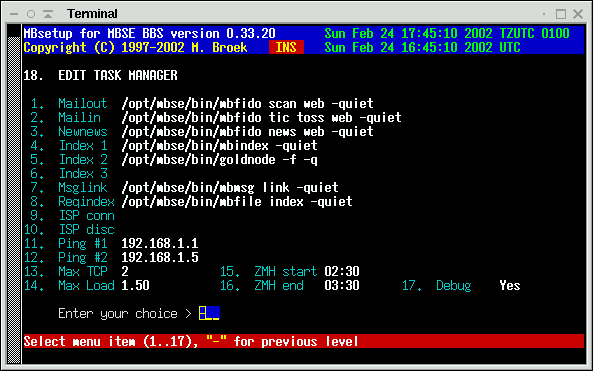
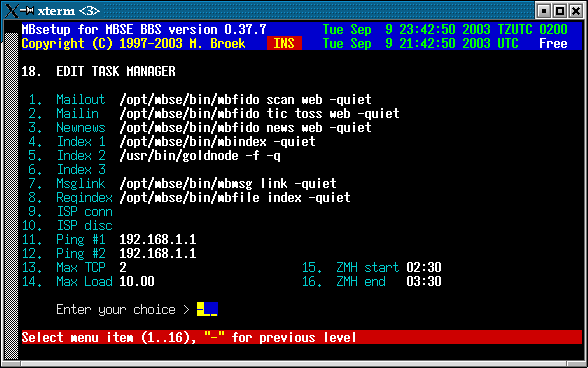
Some small updates

diff --git a/html/setup/global.html b/html/setup/global.html
@@ -12,7 +12,7 @@
 </HEAD>
 <BODY>
 <BLOCKQUOTE>
-<div align="right"><h5>Last update 24-Aug-2003</h5></div>
+<div align="right"><h5>Last update 09-Sep-2003</h5></div>
 
 <div align="center"><H1>MBSE BBS Setup - Global Setup</H1></div>
 <P>
@@ -50,6 +50,7 @@ group them.
 <pre>
 <strong>System logfile    </strong>The name of the main logfile
 <strong>Error logfile     </strong>The name of the errors logfile
+<strong>Debug logfile     </strong>The name of the debug logfile
 <strong>Mgr logfile       </strong>The name of the area-/filemgr logfile
 <strong>Default menu      </strong>The name of the default main menu
 <strong>Default language  </strong>The name of the default language

diff --git a/html/setup/taskmgr.html b/html/setup/taskmgr.html
@@ -45,7 +45,6 @@ The behaviour is setup in this screen.
 <b>Max Load  </b>Max system load until processing is suspended.
 <b>ZMH start </b>Start of Zone Mail Hour in UTC time.
 <b>ZMH end   </b>End of Zone Mail Hour in UTC time.
-<b>Debug     </b>Enable debug logging.
 </pre>
 <P>
 Default are the original MBSE commands filled in, but you could also call

diff --git a/mbcico/binkp.c b/mbcico/binkp.c
@@ -365,7 +365,7 @@ void binkp_send_control(int id,...)
 	sz = 1;
     }
 
-    Syslog('B', "Binkp: send_ctl %s \"%s\"", bstate[id], buf);
+    Syslog('b', "Binkp: send_ctl %s \"%s\"", bstate[id], buf);
     frame.header = ((BINKP_CONTROL_BLOCK + sz) & 0xffff);
     frame.id = (char)id;
     frame.data = buf;
@@ -741,7 +741,7 @@ SM_STATE(WaitOk)
 
 	if (cmd) {
 	    if (rbuf[0] == MM_OK) {
-		Syslog('!', "Binkp: M_OK \"%s\"", printable(&rbuf[1], 0));
+		Syslog('b', "Binkp: M_OK \"%s\"", printable(&rbuf[1], 0));
 	        if (SendPass)
 		   Secure = TRUE;
 		Syslog('+', "Binkp: %s%sprotected session", CRAMflag ? "MD5 ":"", Secure ? "":"un");
@@ -824,7 +824,6 @@ SM_STATE(WaitConn)
 	strcpy(s, "OPT ");
 	MD_toString(s+4, MD_challenge[0], MD_challenge+1);
 	CRAMflag = TRUE;
-	Syslog('b', "Binkp: sending \"%s\"", s);
 	binkp_send_control(MM_NUL, "%s", s);
     }
     b_banner();
@@ -1327,7 +1326,7 @@ int binkp_batch(file_list *to_send, int role)
 	    if (tmp == NULL) {
 		TxState = TxDone;
 		binkp_send_control(MM_EOB, "");
-		Syslog('+', "Binkp: sending EOB");
+		Syslog('b', "Binkp: sending EOB");
 	    }
 	    break;
 

diff --git a/mbsetup/m_ol.c b/mbsetup/m_ol.c
@@ -446,12 +446,16 @@ void PurgeOneline(void)
 
     if (yes_no((char *)"Purge deleted records") == TRUE) {
 	working(1, 0, 0);
+	recno = iCount = 0;
 	fseek(pOneline, olhdr.hdrsize, 0);
 	fp = fopen("tmp.1", "a");
 	fwrite(&olhdr, sizeof(olhdr), 1, fp);
 	while (fread(&ol, olhdr.recsize, 1, pOneline) == 1) {
+	    recno++;
 	    if (ol.Available)
 		fwrite(&ol, olhdr.recsize, 1, fp);
+	    else
+		iCount++;
 	}
 	fclose(fp);
 	fclose(pOneline);
@@ -460,6 +464,7 @@ void PurgeOneline(void)
 	unlink("tmp.1");
 	working(0, 0, 0);
 	free(sFileName);
+	Syslog('+', "Purged %d out of %d oneliners", iCount, recno);
     }
 }
 
@@ -552,7 +557,8 @@ void ImportOneline(void)
     fclose(pOneline);
     working(0, 0, 0);
 
-    sprintf(temp, "Imported %d records, skipped %d long/empty lines", recno, skipped);
+    sprintf(temp, "Imported %d oneliners, skipped %d long/empty lines", recno, skipped);
+    Syslog('+', temp);
     mvprintw(21, 6, temp);
     readkey(21, 7 + strlen(temp), LIGHTGRAY, BLACK);
     free(temp);
